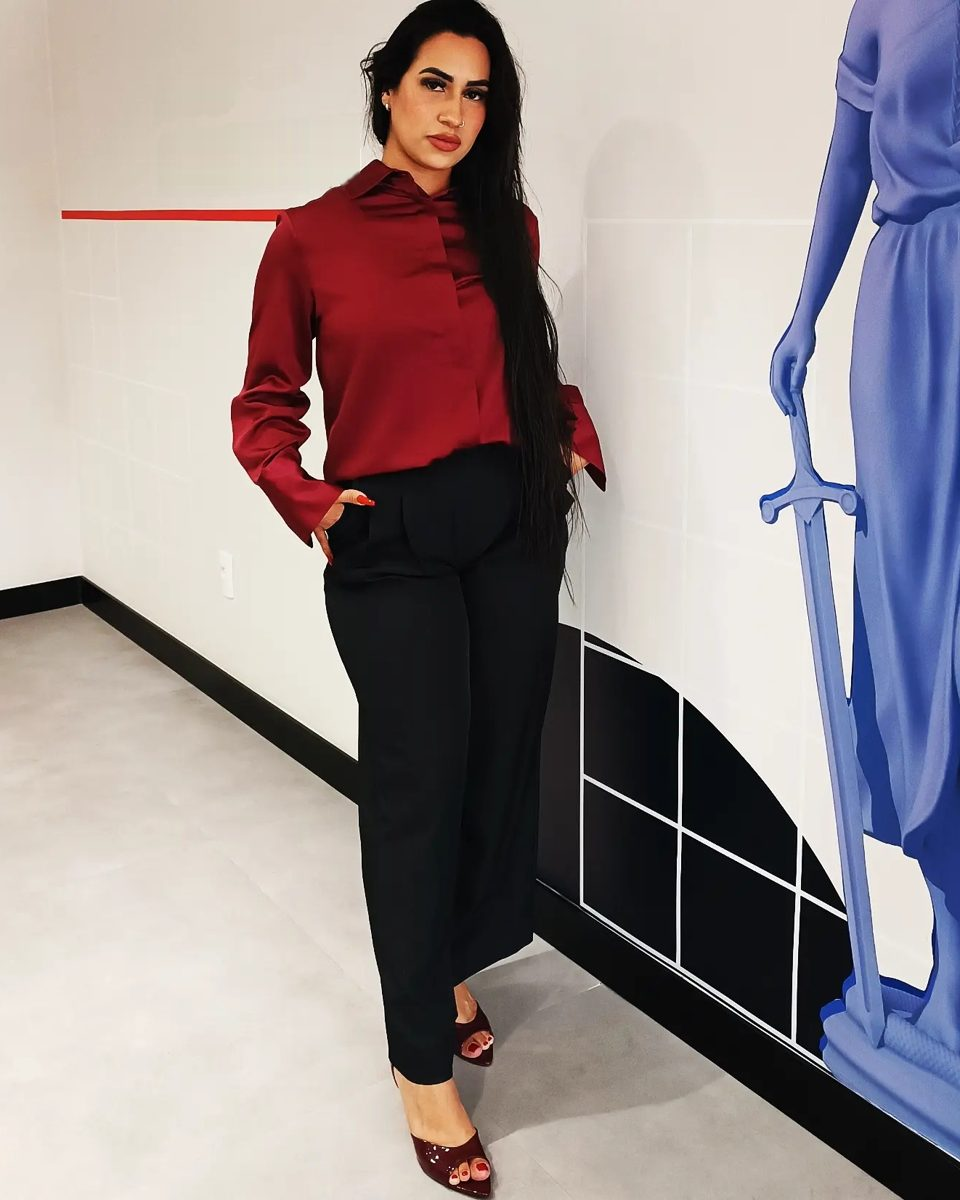
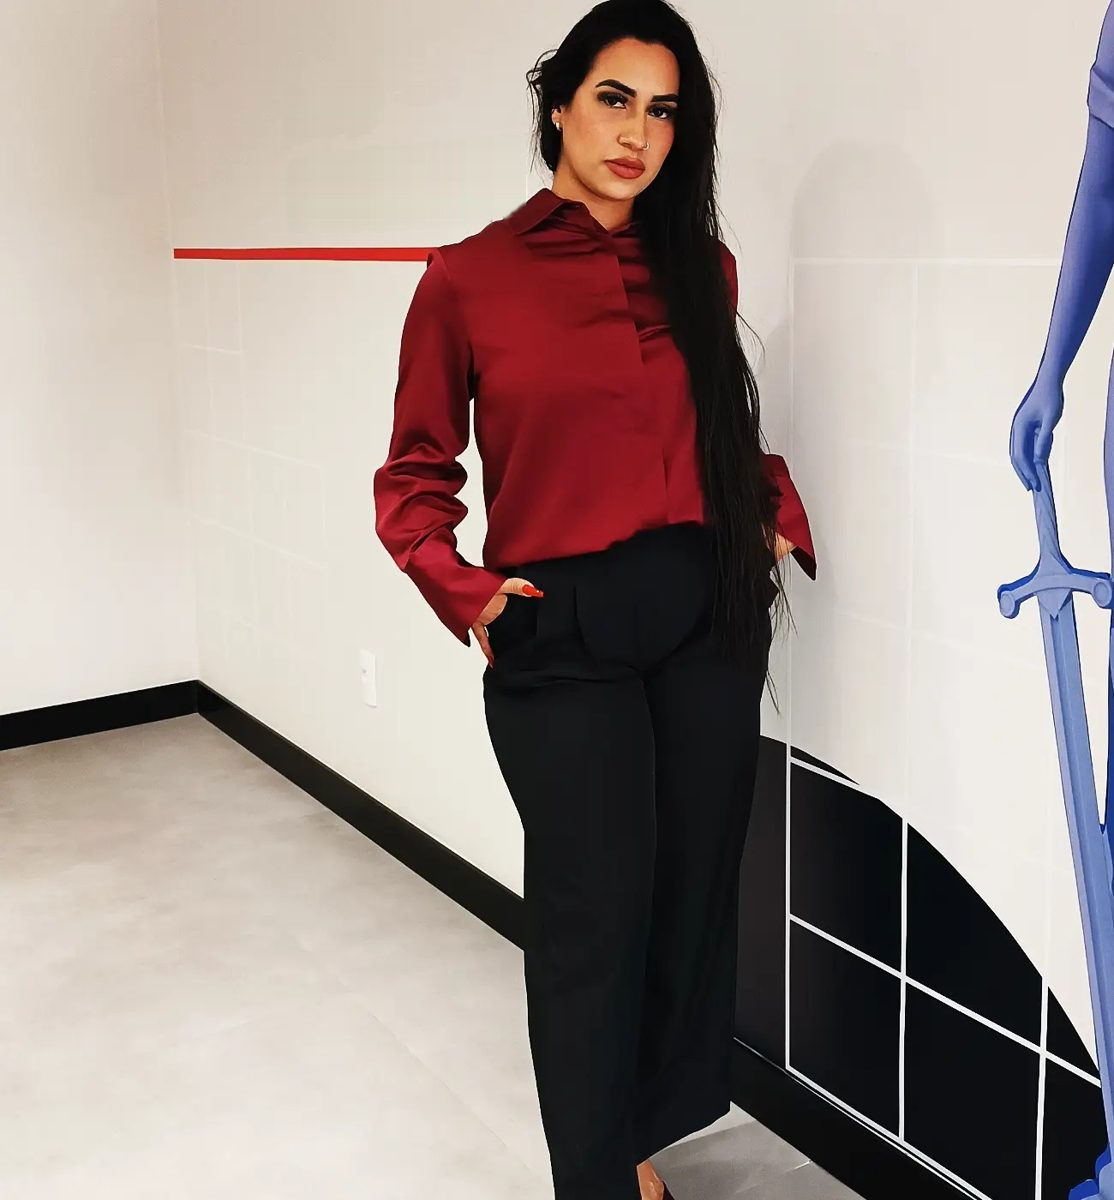
Agatha Christie: hero no modelo do Alisson Oliveira (foto sangrando à direita)

diff --git a/agatha-christie/index.html b/agatha-christie/index.html
@@ -92,28 +92,26 @@ a{color:inherit}
 }
 @media (max-width:560px){.nav-right .btn.sm{display:none}.brand b{font-size:clamp(17px,5.4vw,24px)}.brand small{letter-spacing:.12em}}
 
-/* hero (ASYMMETRIC: texto largo + foto com moldura deslocada) */
-.hero{position:relative;background:var(--dark);color:#e6dcdc;overflow:hidden;padding:160px 0 96px}
-.hero::before{content:"";position:absolute;inset:0;background:linear-gradient(90deg,rgba(255,255,255,.035) 1px,transparent 1px) 0 0/120px 100%;pointer-events:none}
-.hero::after{content:"";position:absolute;left:-15%;bottom:-40%;width:60%;height:120%;background:radial-gradient(circle,color-mix(in srgb,var(--accent) 16%,transparent),transparent 62%);pointer-events:none}
-.hero .wrap{position:relative;z-index:1;display:grid;grid-template-columns:1.3fr .7fr;gap:72px;align-items:center}
-.hero h1{font-family:var(--serif);font-weight:600;color:#fff;font-size:clamp(42px,5.6vw,72px);line-height:1.04;margin:18px 0 24px;letter-spacing:-.01em}
+/* hero (IMMERSIVE: foto sangrando à direita com degradê, modelo Alisson Oliveira) */
+.hero{position:relative;background:var(--dark);color:#efe3e1;overflow:hidden;min-height:min(92vh,860px);display:flex;align-items:center;padding:150px 0 90px}
+.hero-bg{position:absolute;top:104px;right:0;bottom:0;width:56%}
+.hero-bg img{width:100%;height:100%;object-fit:cover;object-position:60% 15%}
+.hero-bg::after{content:"";position:absolute;inset:0;background:linear-gradient(180deg,var(--dark) 0%,rgba(42,11,17,0) 14%),linear-gradient(90deg,var(--dark) 0%,rgba(42,11,17,.8) 22%,rgba(42,11,17,.18) 60%,rgba(42,11,17,0) 100%)}
+.hero .wrap{position:relative;z-index:1}
+.hero-text{max-width:600px}
+.hero h1{font-family:var(--serif);font-weight:600;color:#fff;font-size:clamp(42px,5.4vw,68px);line-height:1.04;margin:18px 0 22px;letter-spacing:-.01em}
 .hero h1 i{color:var(--accent-soft);font-weight:500}
-.hero p{color:#c4b5b7;max-width:34em;margin-bottom:34px}
+.hero p{color:#cdb9b6;max-width:31em;margin-bottom:34px}
 .ctas{display:flex;flex-wrap:wrap;gap:14px}
-.facts{display:flex;flex-wrap:wrap;gap:34px;margin-top:48px;padding-top:26px;border-top:1px solid rgba(255,255,255,.1);font-size:15px;color:#c4b5b7}
-.facts b{display:block;font-family:var(--serif);font-weight:600;font-size:32px;color:#fff;line-height:1.1}
+.facts{display:flex;flex-wrap:wrap;gap:30px;margin-top:46px;padding-top:24px;border-top:1px solid rgba(255,255,255,.12);font-size:15px;color:#cdb9b6}
+.facts b{display:block;font-family:var(--serif);font-weight:600;font-size:30px;color:#fff;line-height:1.1}
 .facts b span{color:var(--accent)}
-.hero-photo{position:relative;justify-self:end;width:100%;max-width:400px}
-.hero-photo::before{content:"";position:absolute;inset:22px -22px -22px 22px;border:1px solid var(--accent);border-radius:4px}
-.hero-photo img{position:relative;width:100%;aspect-ratio:4/5;object-fit:cover;object-position:50% 20%;border-radius:4px}
-.badge{position:absolute;left:-40px;bottom:40px;z-index:2;background:var(--bg);color:var(--brand);padding:14px 20px;border-radius:4px;box-shadow:0 18px 40px -18px rgba(0,0,0,.55);font-size:14px;line-height:1.35}
-.badge b{display:block;font-family:var(--serif);font-size:26px;font-weight:700;color:var(--brand)}
 @media (max-width:860px){
-  .hero{padding:132px 0 72px}
-  .hero .wrap{grid-template-columns:1fr;gap:56px}
-  .hero-photo{justify-self:center;max-width:330px;margin-right:22px}
-  .badge{left:-14px;bottom:24px}
+  .hero{display:block;min-height:0;padding:0 0 64px}
+  .hero-bg{position:relative;top:0;width:100%;height:440px;margin-top:122px}
+  .hero-bg img{object-position:55% 10%}
+  .hero-bg::after{background:linear-gradient(180deg,rgba(42,11,17,0) 0%,rgba(42,11,17,0) 50%,rgba(42,11,17,.85) 82%,var(--dark) 100%)}
+  .hero .wrap{margin-top:-40px}
 }
 
 /* seções */
@@ -316,6 +314,9 @@ h2,h3{font-weight:600}
 </nav>
 
 <header class="hero" id="inicio">
+  <div class="hero-bg">
+    <img src="assets/hero.jpg" alt="Dra. Agatha Christie, advogada">
+  </div>
   <div class="wrap">
     <div class="hero-text reveal">
       <span class="h24"><i></i>Atendimento 24 horas</span><br>
@@ -331,10 +332,6 @@ h2,h3{font-weight:600}
         <div><b>9</b>áreas de atuação</div>
         <div><b>Todo o Brasil</b>atendimento</div>
       </div>
-    </div>
-    <div class="hero-photo reveal">
-      <img src="assets/hero.jpg" alt="Dra. Agatha Christie, advogada">
-      <div class="badge"><b>Advocacia</b>ética e competente</div>
     </div>
   </div>
 </header>
